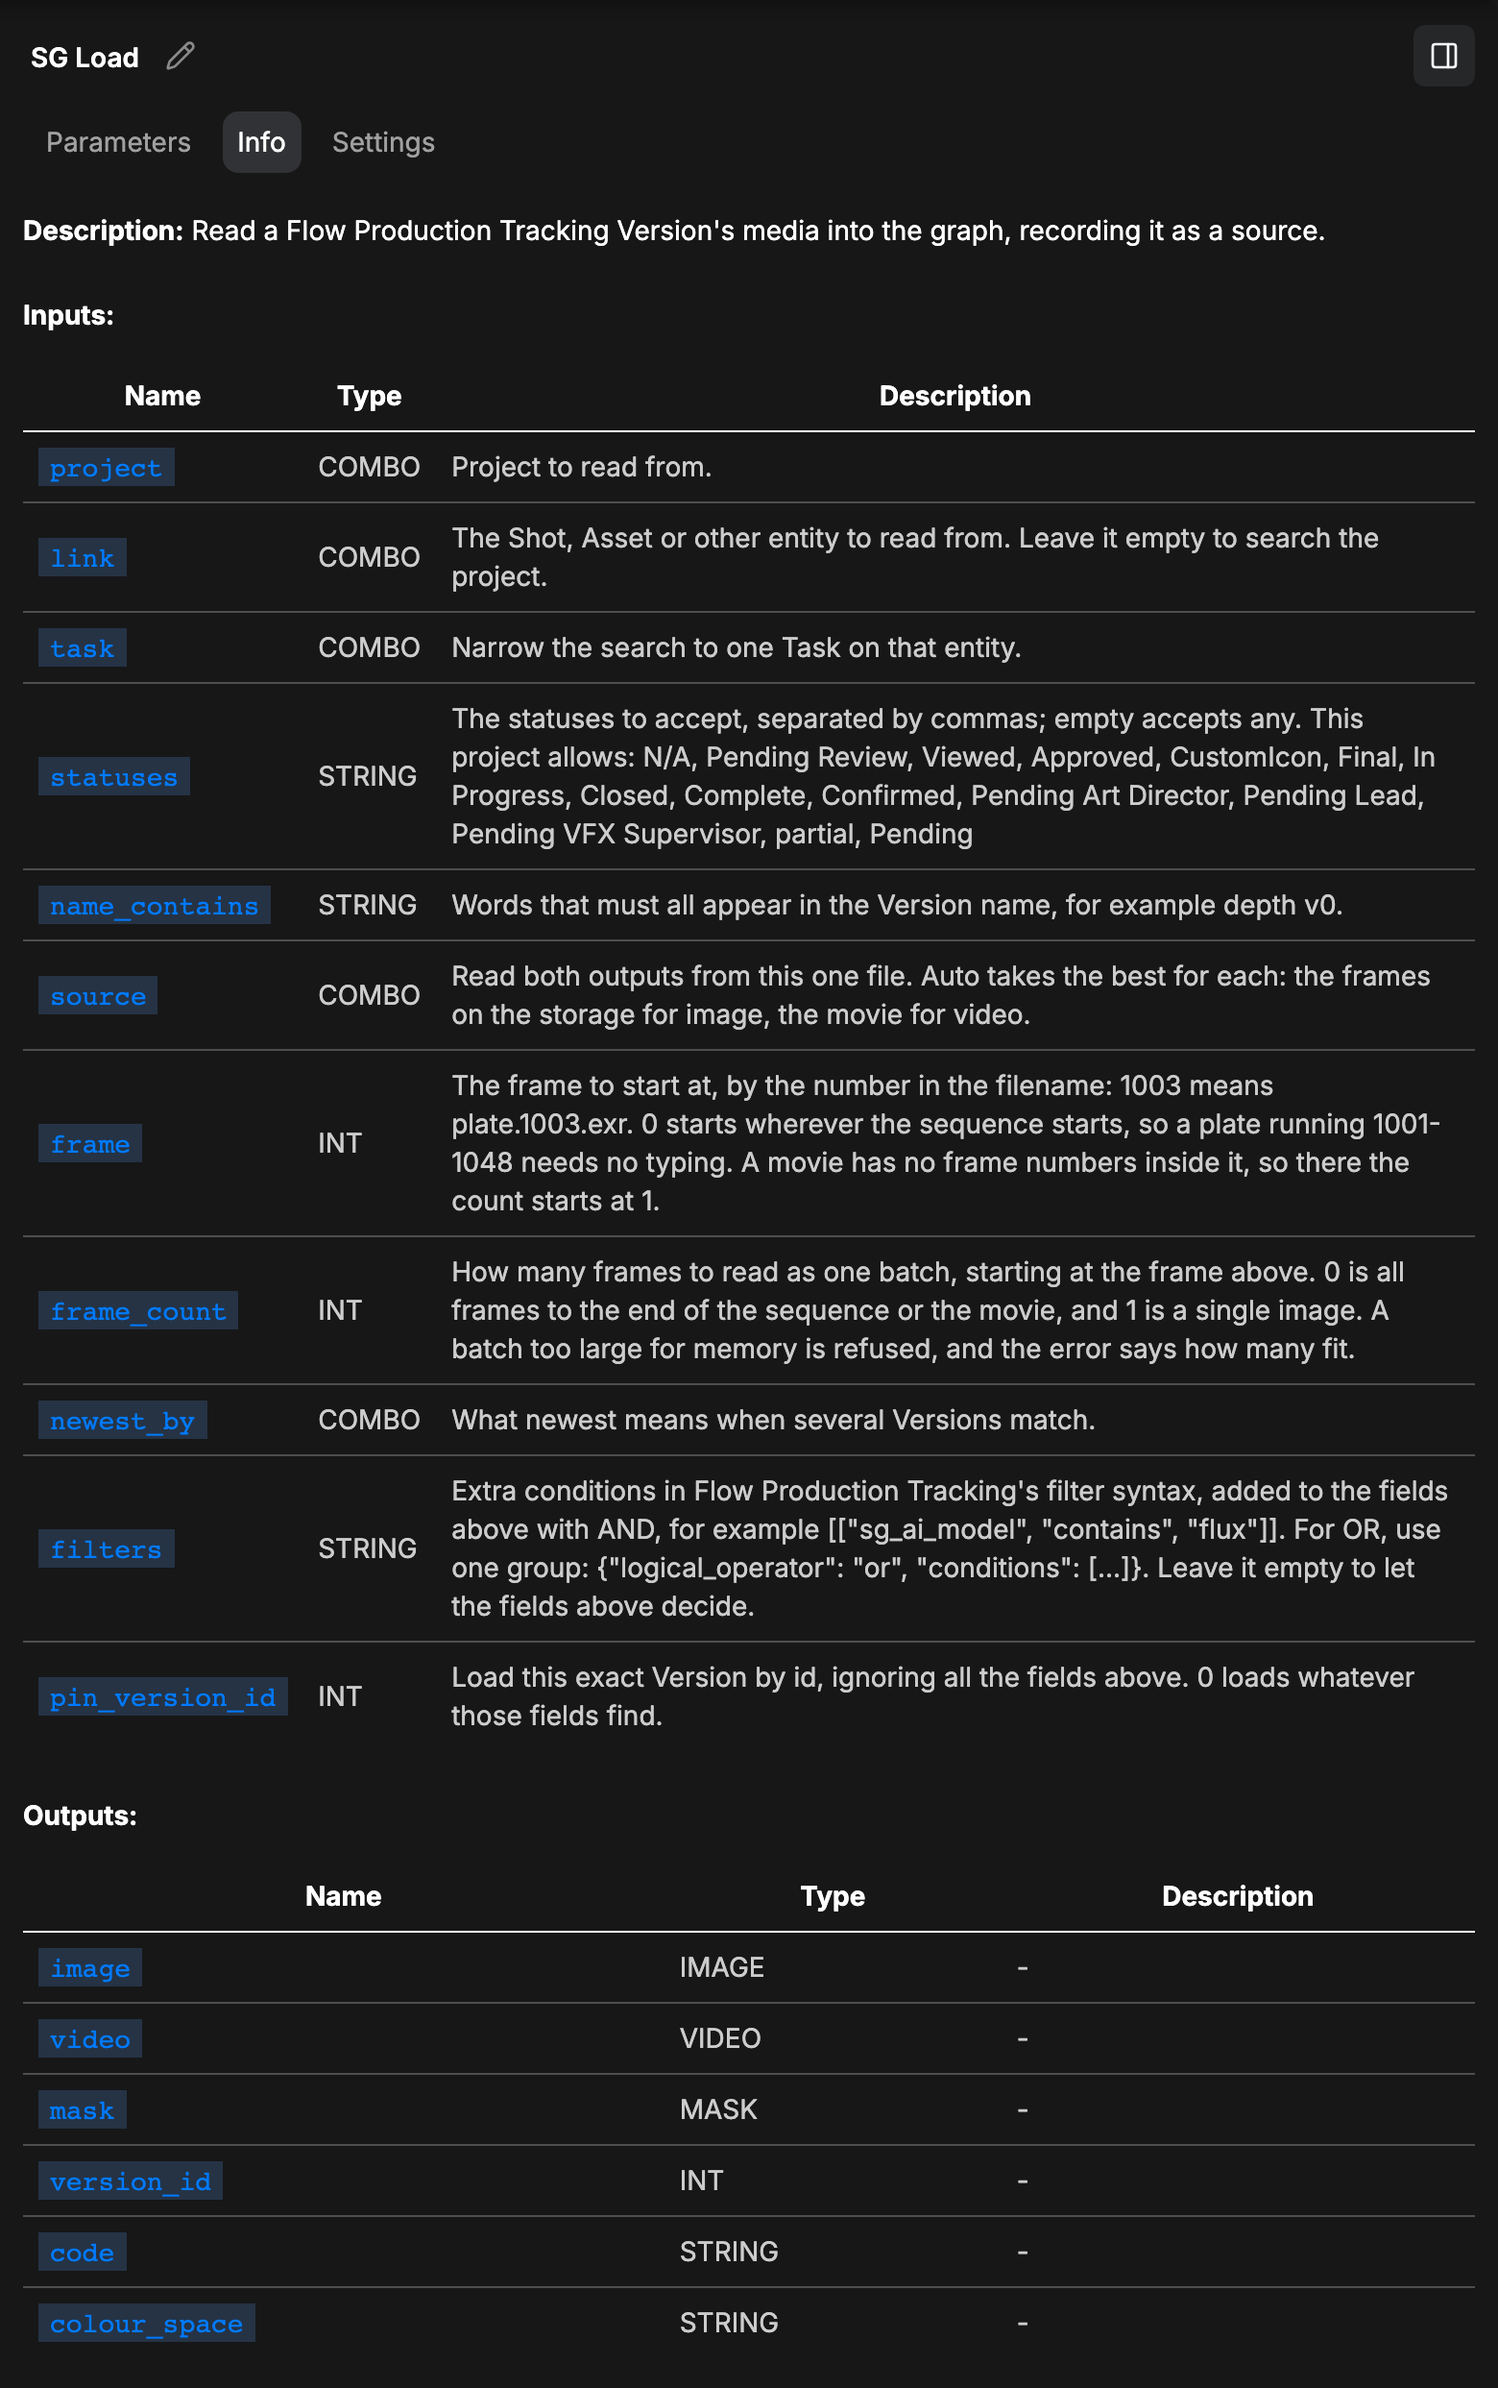
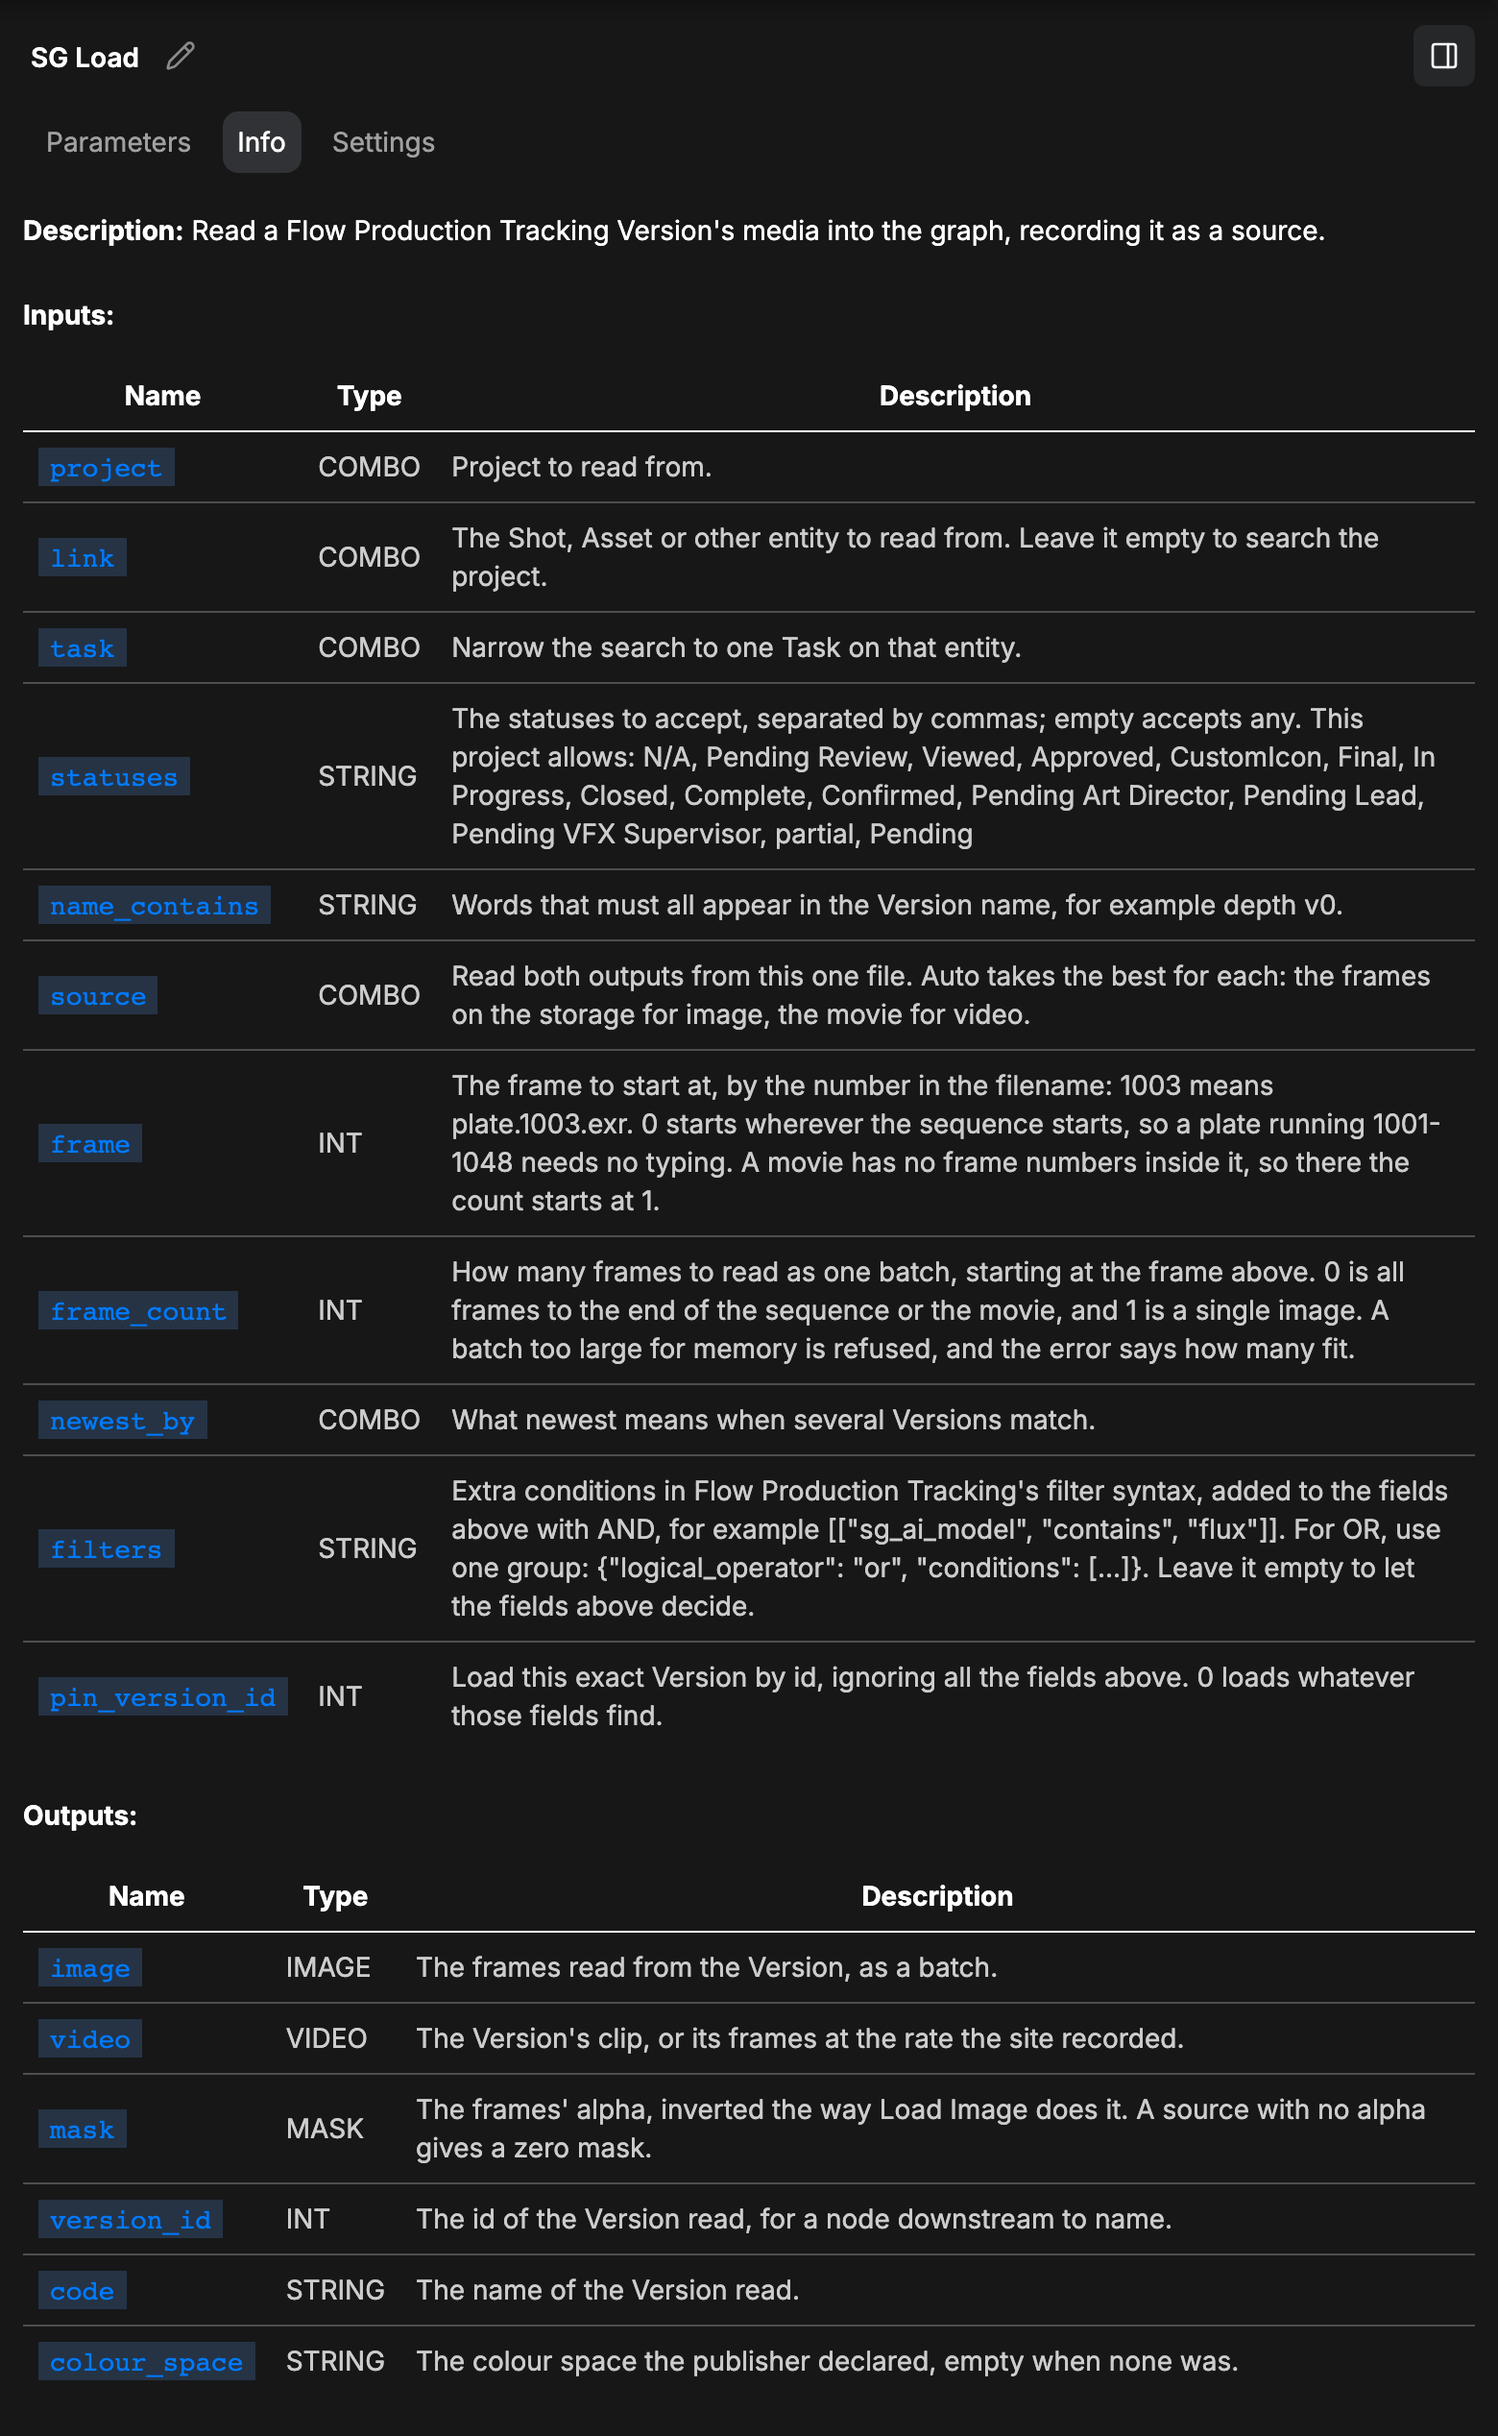
SG Load describes its outputs, and the site's header reads SG ComfyUI
`OUTPUT_TOOLTIPS` gives the Info tab one sentence per output. The load Info capture is retaken
with the outputs table. The header bar and the page titles on the site read SG ComfyUI; the hero
and the footer keep the full name.

Claude-Session: https://claude.ai/code/session_01QMFLjaF5RRaXy2KV53GW1J

diff --git a/tools/drive_info_tab.js b/tools/drive_info_tab.js
@@ -7,7 +7,7 @@
 //     --shot /tmp/publish.png
 //   uv run --with Pillow --python 3.11 python -c "from PIL import Image; x,y,w,h = 1220,38,780,995; \
 //     Image.open('/tmp/publish.png').crop((2*x,2*y,2*(x+w),2*(y+h))).save('docs/images/sg-publish-info.png')"
-// The same two commands with --node SGLoadVersion and h = 1243 write docs/images/sg-load-info.png.
+// The same two commands with --node SGLoadVersion, --viewport 2000x1600 and h = 1268 write docs/images/sg-load-info.png.
 const WIDTH = 780;
 
 app.canvas.selectNode(node);

diff --git a/site/src/routes/docs/install/+page.svelte b/site/src/routes/docs/install/+page.svelte
@@ -12,7 +12,7 @@ ok    This is the interpreter ComfyUI runs on, /Users/you/ComfyUI/venv/bin/pytho
 </script>
 
 <svelte:head>
-	<title>Install. Flow Production Tracking for ComfyUI</title>
+	<title>Install. SG ComfyUI</title>
 	<meta name="description" content="The interpreter to install into, the three install paths, the four local files, and the offline check." />
 </svelte:head>
 

diff --git a/site/src/routes/+page.svelte b/site/src/routes/+page.svelte
@@ -78,7 +78,7 @@ Then offer to run /setup.`;
 </script>
 
 <svelte:head>
-	<title>Flow Production Tracking for ComfyUI</title>
+	<title>SG ComfyUI</title>
 	<meta
 		name="description"
 		content="Two ComfyUI nodes. SG Publish creates a Version with the model, prompt, seed, sampler and workflow that made it. SG Load reads that media back into a graph."

diff --git a/site/src/routes/docs/formats/+page.svelte b/site/src/routes/docs/formats/+page.svelte
@@ -4,7 +4,7 @@
 </script>
 
 <svelte:head>
-	<title>Formats and colour space. Flow Production Tracking for ComfyUI</title>
+	<title>Formats and colour space. SG ComfyUI</title>
 	<meta name="description" content="The three frame formats, what writes them, what review media is, and how a declared colour space is recorded." />
 </svelte:head>
 

diff --git a/site/src/routes/docs/storage/+page.svelte b/site/src/routes/docs/storage/+page.svelte
@@ -4,7 +4,7 @@
 </script>
 
 <svelte:head>
-	<title>Storage and paths. Flow Production Tracking for ComfyUI</title>
+	<title>Storage and paths. SG ComfyUI</title>
 	<meta name="description" content="Local File Storage roots, the two path templates, the tokens they take, and what a failed publish leaves behind." />
 </svelte:head>
 

diff --git a/site/src/routes/docs/provenance/+page.svelte b/site/src/routes/docs/provenance/+page.svelte
@@ -4,7 +4,7 @@
 </script>
 
 <svelte:head>
-	<title>Provenance fields. Flow Production Tracking for ComfyUI</title>
+	<title>Provenance fields. SG ComfyUI</title>
 	<meta name="description" content="The nine typed fields on Version, where each value comes from, and what a site without them records instead." />
 </svelte:head>
 

diff --git a/site/src/routes/docs/+page.svelte b/site/src/routes/docs/+page.svelte
@@ -4,7 +4,7 @@
 </script>
 
 <svelte:head>
-	<title>Docs. Flow Production Tracking for ComfyUI</title>
+	<title>Docs. SG ComfyUI</title>
 	<meta name="description" content="Nine pages: install, first run, the profile, the two nodes, provenance, formats, storage, troubleshooting, and the agent entry point." />
 </svelte:head>
 

diff --git a/site/src/routes/docs/agent/+page.svelte b/site/src/routes/docs/agent/+page.svelte
@@ -3,7 +3,7 @@
 </script>
 
 <svelte:head>
-	<title>For an agent. Flow Production Tracking for ComfyUI</title>
+	<title>For an agent. SG ComfyUI</title>
 	<meta name="description" content="The entry point for an agent: the offline check, which document answers which question, and the three procedures." />
 </svelte:head>
 

diff --git a/site/src/routes/docs/troubleshooting/+page.svelte b/site/src/routes/docs/troubleshooting/+page.svelte
@@ -1,5 +1,5 @@
 <svelte:head>
-	<title>Troubleshooting. Flow Production Tracking for ComfyUI</title>
+	<title>Troubleshooting. SG ComfyUI</title>
 	<meta name="description" content="The symptom, then the fix: a 404 Settings dialog, empty pickers, a stale lookup, a refused storage, an unnamed client." />
 </svelte:head>
 

diff --git a/site/src/routes/docs/profile/+page.svelte b/site/src/routes/docs/profile/+page.svelte
@@ -21,7 +21,7 @@
 </script>
 
 <svelte:head>
-	<title>The profile. Flow Production Tracking for ComfyUI</title>
+	<title>The profile. SG ComfyUI</title>
 	<meta name="description" content="profile.local.json sets what a Version links to, what it is called, and where each provenance fact is written." />
 </svelte:head>
 

diff --git a/site/src/lib/site.js b/site/src/lib/site.js
@@ -44,7 +44,7 @@ export const shotSize = {
 	'load-provenance-rows': [870, 660],
 	'settings-sign-in': [2304, 1440],
 	'settings-storage-paths': [1900, 750],
-	'sg-load-info': [1560, 2486],
+	'sg-load-info': [1560, 2536],
 	'sg-load-node': [1050, 800],
 	'sg-publish-info': [1560, 2104],
 	'sg-publish-node': [765, 855]

diff --git a/site/src/routes/docs/nodes/+page.svelte b/site/src/routes/docs/nodes/+page.svelte
@@ -4,7 +4,7 @@
 </script>
 
 <svelte:head>
-	<title>The two nodes. Flow Production Tracking for ComfyUI</title>
+	<title>The two nodes. SG ComfyUI</title>
 	<meta name="description" content="What SG Publish writes to a Version, what SG Load reads back, and what each node reports before a Run." />
 </svelte:head>
 
